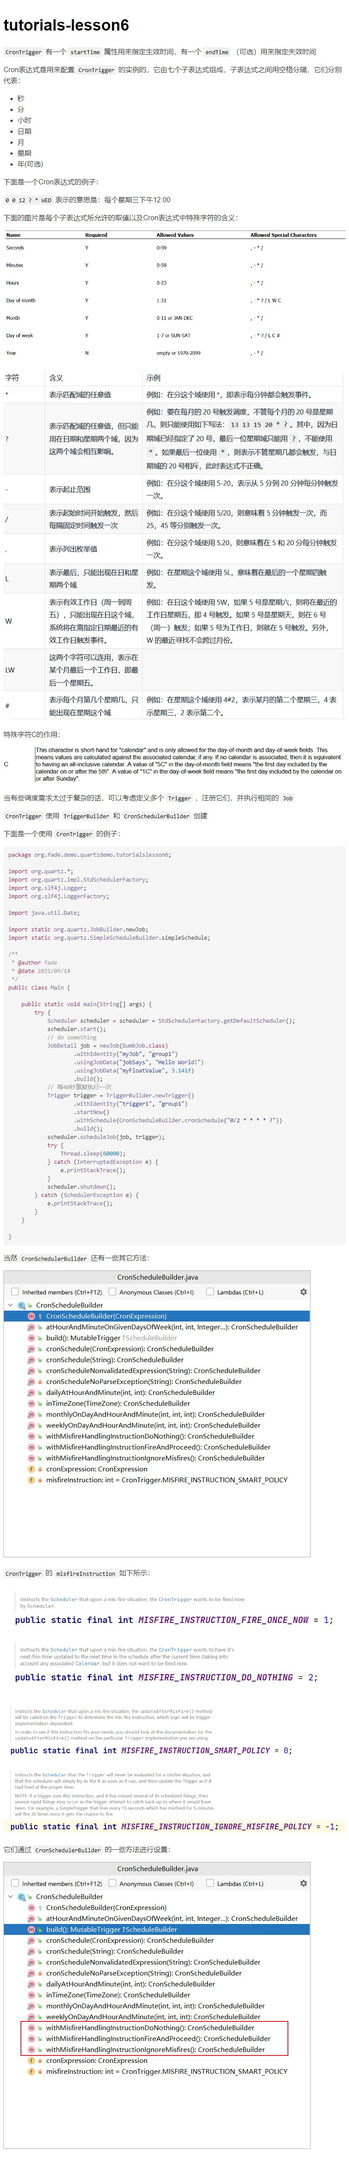
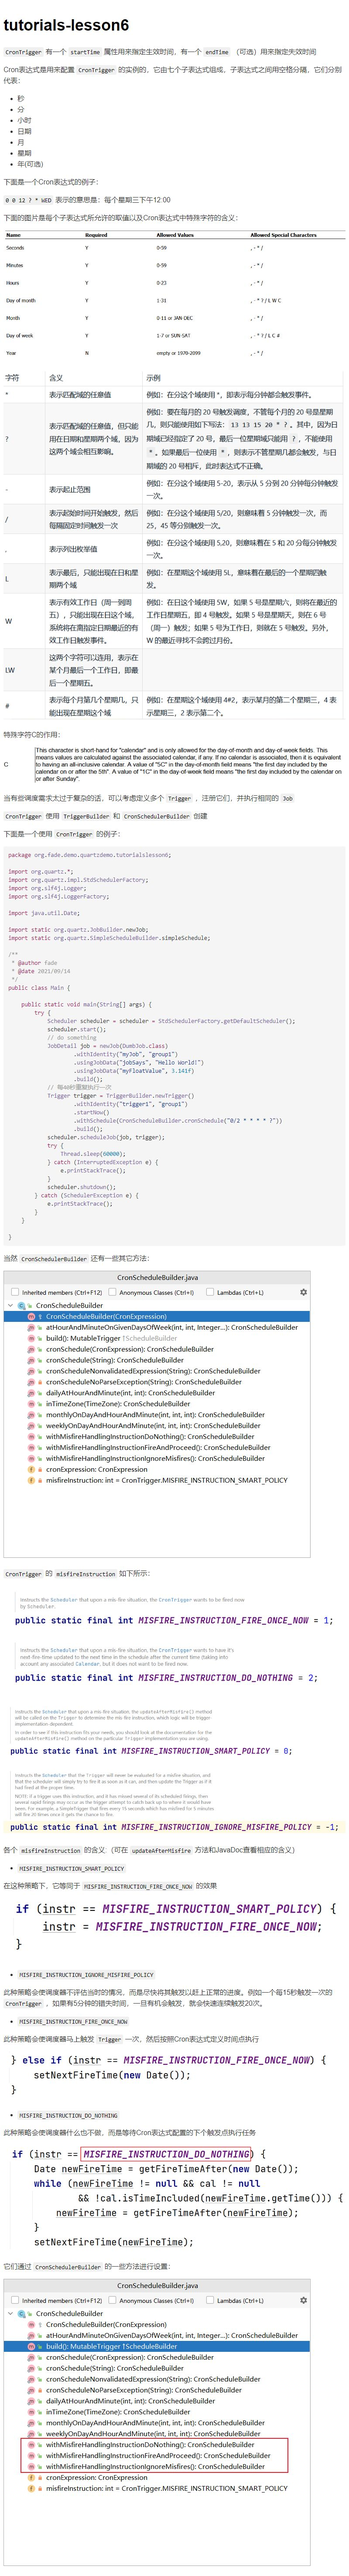
#feature CronTrigger misfireInstruction 补充

diff --git a/doc/tutorials-lesson6.md b/doc/tutorials-lesson6.md
@@ -92,7 +92,29 @@ public class Main {
 
 ![Snipaste_2021-09-14_16-10-55.png](../img/Snipaste_2021-09-14_16-10-55.png)
 
-TODO: 各个 `misfireInstruction` 的含义:
+各个 `misfireInstruction` 的含义:（可在 `updateAfterMisfire` 方法和JavaDoc查看相应的含义）
+
+* `MISFIRE_INSTRUCTION_SMART_POLICY`
+
+在这种策略下，它等同于 `MISFIRE_INSTRUCTION_FIRE_ONCE_NOW` 的效果
+
+![Snipaste_2021-09-18_11-56-18.png](../img/Snipaste_2021-09-18_11-56-18.png)
+
+* `MISFIRE_INSTRUCTION_IGNORE_MISFIRE_POLICY`
+
+此种策略会使调度器不评估当时的情况，而是尽快将其触发以赶上正常的进度。例如一个每15秒触发一次的 `CronTrigger` ，如果有5分钟的错失时间，一旦有机会触发，就会快速连续触发20次。
+
+* `MISFIRE_INSTRUCTION_FIRE_ONCE_NOW`
+
+此种策略会使调度器马上触发 `Trigger` 一次，然后按照Cron表达式定义时间点执行
+
+![Snipaste_2021-09-18_11-57-06.png](../img/Snipaste_2021-09-18_11-57-06.png)
+
+* `MISFIRE_INSTRUCTION_DO_NOTHING`
+
+此种策略会使调度器什么也不做，而是等待Cron表达式配置的下个触发点执行任务
+
+![Snipaste_2021-09-18_13-38-42.png](../img/Snipaste_2021-09-18_13-38-42.png)
 
 它们通过 `CronSchedulerBuilder` 的一些方法进行设置：
 

diff --git a/doc/tutorials-lesson5.md b/doc/tutorials-lesson5.md
@@ -132,7 +132,7 @@ quartz会为你没显式设置的属性设置合理的值。
 
 ![Snipaste_2021-09-14_16-10-55.png](../img/Snipaste_2021-09-14_16-10-55.png)
 
-各个 `misfireInstruction` 的含义:
+各个 `misfireInstruction` 的含义:（可在 `updateAfterMisfire` 方法和JavaDoc查看相应的含义）
 
 * `MISFIRE_INSTRUCTION_SMART_POLICY`
 
